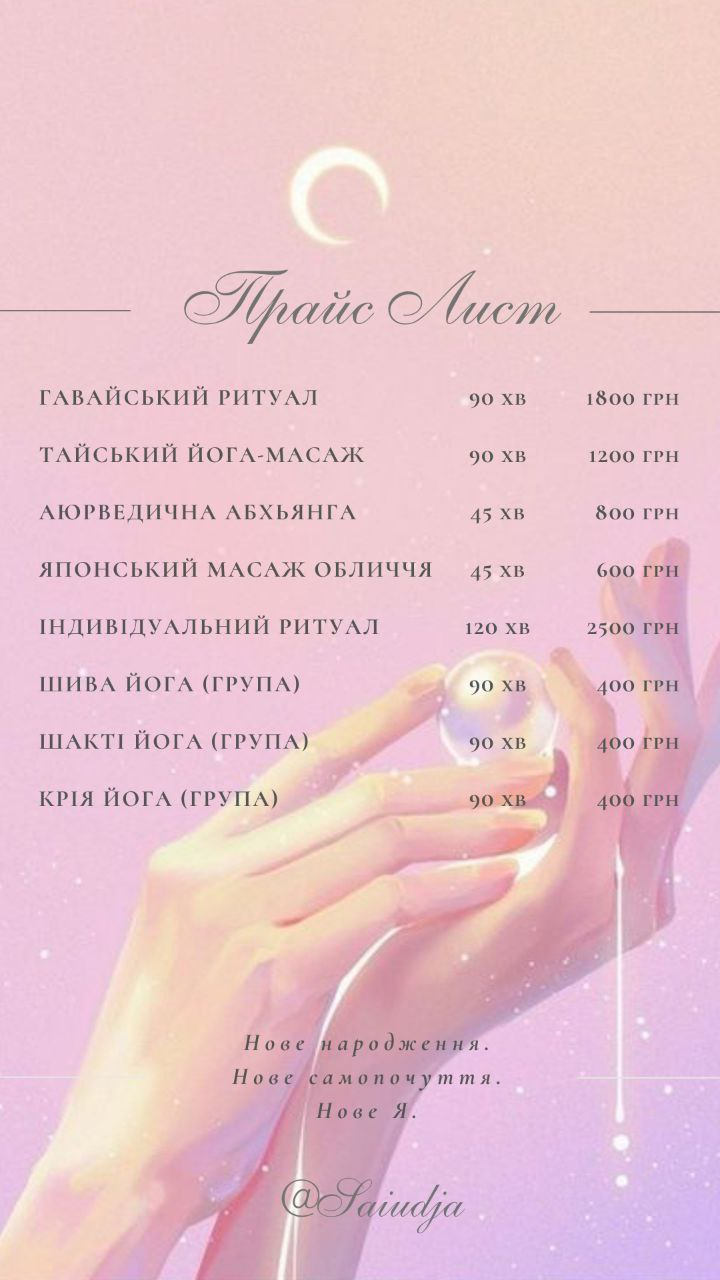
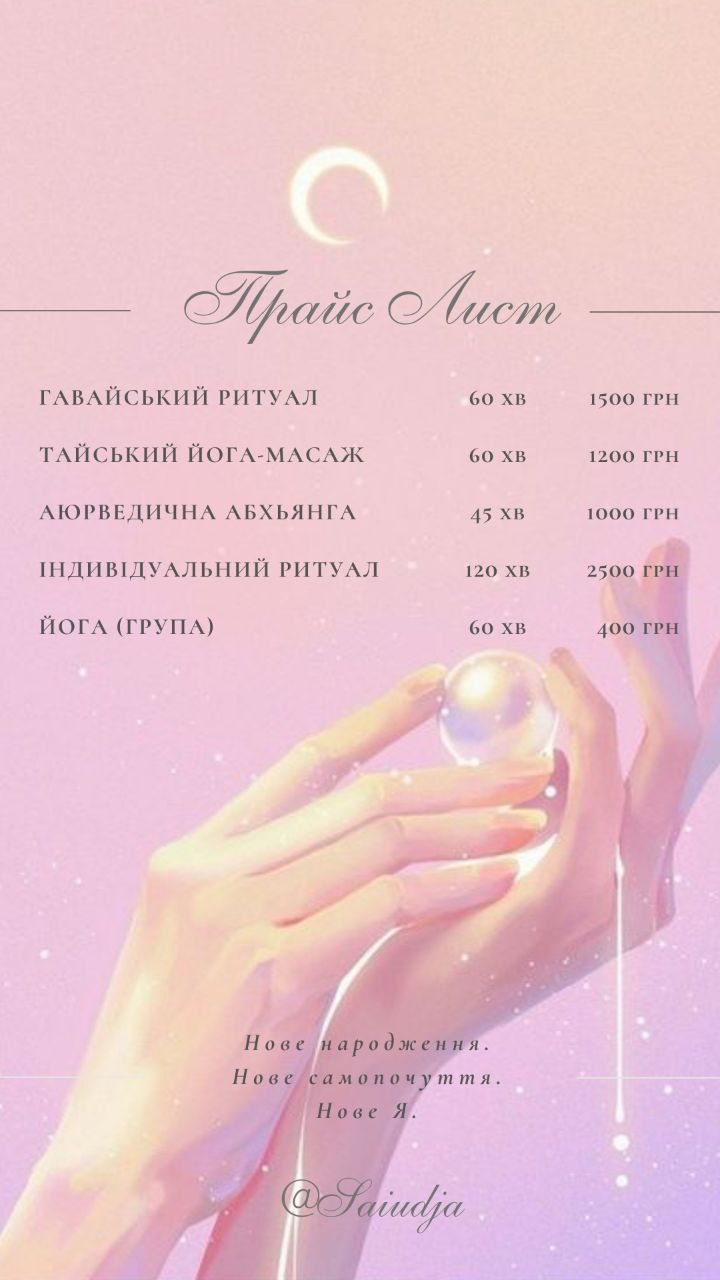
price and practices

diff --git a/rozklad.html b/rozklad.html
@@ -99,33 +99,12 @@
         <span id="six">Самоусвідомлення</span>
       </p>
       <h3 class="mt-5">Як записатись?</h3>
-        <p>Будь-ласка, записуйтесь на будь-який ритуал зручним для вас способом, напишіть мені в особисті на пошту, інстаграм, телеграм.</p>
+        <p>Будь-ласка, напишіть мені на телеграм.</p>
        <h3 class="mt-3">Де та коли проходить?</h3>
        <ul>
-        <li>Масажні ритуали:</li>
-        <ul>
-          <li>в моєму просторі: м. Київ, Голосіївський або с. Гатне</li>
-          <li>у вашому просторі: приїзжаю до вас (є певні умови щодо підготовки)</li>
-        </ul>
-        <li>Йога ритуали:</li>
-      <ul>
-        <li>групові заняття:</li>
-          <ul>
-         <li>м. Київ, Голосіївський (група до 4 чол.)</li>
-         <li>с. Гатне (група до 4 чол.)</li>
-         <li>опен-ейр, Голосіївський ліс: 8.00  по Києву, вівторок, четвер (і навіть взимку, до -6)</li>
-          </ul>
-        <li>індивідуальні заняття:</li>
-        <ul>
-          <li>в моєму просторі: м. Київ, Голосіївський або с. Гатне</li>
-          <li>у вашому просторі: приїзжаю до вас (є певні умови щодо підготовки)</li>
-         <li>опен-ейр, Голосіївський ліс: за записом</li>
-        </ul>
-        <li>он-лайн-заняття:</li>
-        <ul>
-        <li>07.00 по Києву, понеділок, середа, п'ятниця, зустріч у Google Meet</li>
-        <li>є індивідуальні записи</li>
-        </ul>
+          <li>с. Гатне, <a class="link" href="https://maps.app.goo.gl/wEqTqRqQp6oQs1ds9" target="_blank" >Йога дім</a></li>
+        <li>опен-ейр, м. Голосіївська, Голосіївський ліс: 8.00  по Києву, вівторок, четвер. 
+        <!-- <li>он-лайн: зустріч у Google Meet: 07.00 по Києву, понеділок, середа, п'ятниця</li> -->
        </ul>
       </div>
       <footer class="mt-5 mb-1">

diff --git a/praktyky.html b/praktyky.html
@@ -86,6 +86,10 @@
         <h2 class="mt-5 mb-5"><a class="secondary-link" href="/meditation.html">Погруження</a></h2>
 <h2 class="mt-5 mb-5"><a class="secondary-link" href="/.html">Омовіння світлом</a></h2>
 <h2 class="mt-5 mb-5"><a class="secondary-link" href="/.html">Активатори базових станів</a></h2>
+<h2 class="mt-5 mb-5"><a class="secondary-link" href="/.html">Воскресіння</a></h2>
+<h2 class="mt-5 mb-5"><a class="secondary-link" href="/.html">Прибування у ясності</a></h2>
+<h2 class="mt-5 mb-5"><a class="secondary-link" href="/.html">Ствердження божественності</a></h2>
+<h2 class="mt-5 mb-5"><a class="secondary-link" href="/.html">Активація досвіду минулих життів. Хроніки Акаші</a></h2>
 
         </div>
       </div>

diff --git a/mantra.html b/mantra.html
@@ -81,9 +81,6 @@
 
     <div class="hero">
       <h1 class="text-center">Вітаю у Всесвіті, </br>де народжується нова реальність</h1>
-      <p class="mt-4">
-         Мантра
-      </p>
       <h3 id="soham">Мантра Со-Хам</h3>
       <p>Мантра "Со-хам" — це потужна медитативна мантра, яка використовується для досягнення стану внутрішнього спокою, зосередженості та усвідомлення свого "я". 
         На санскриті "Со-хам" означає "Я є той", "Я є" або "Я є те, чим є Всесвіт". 
